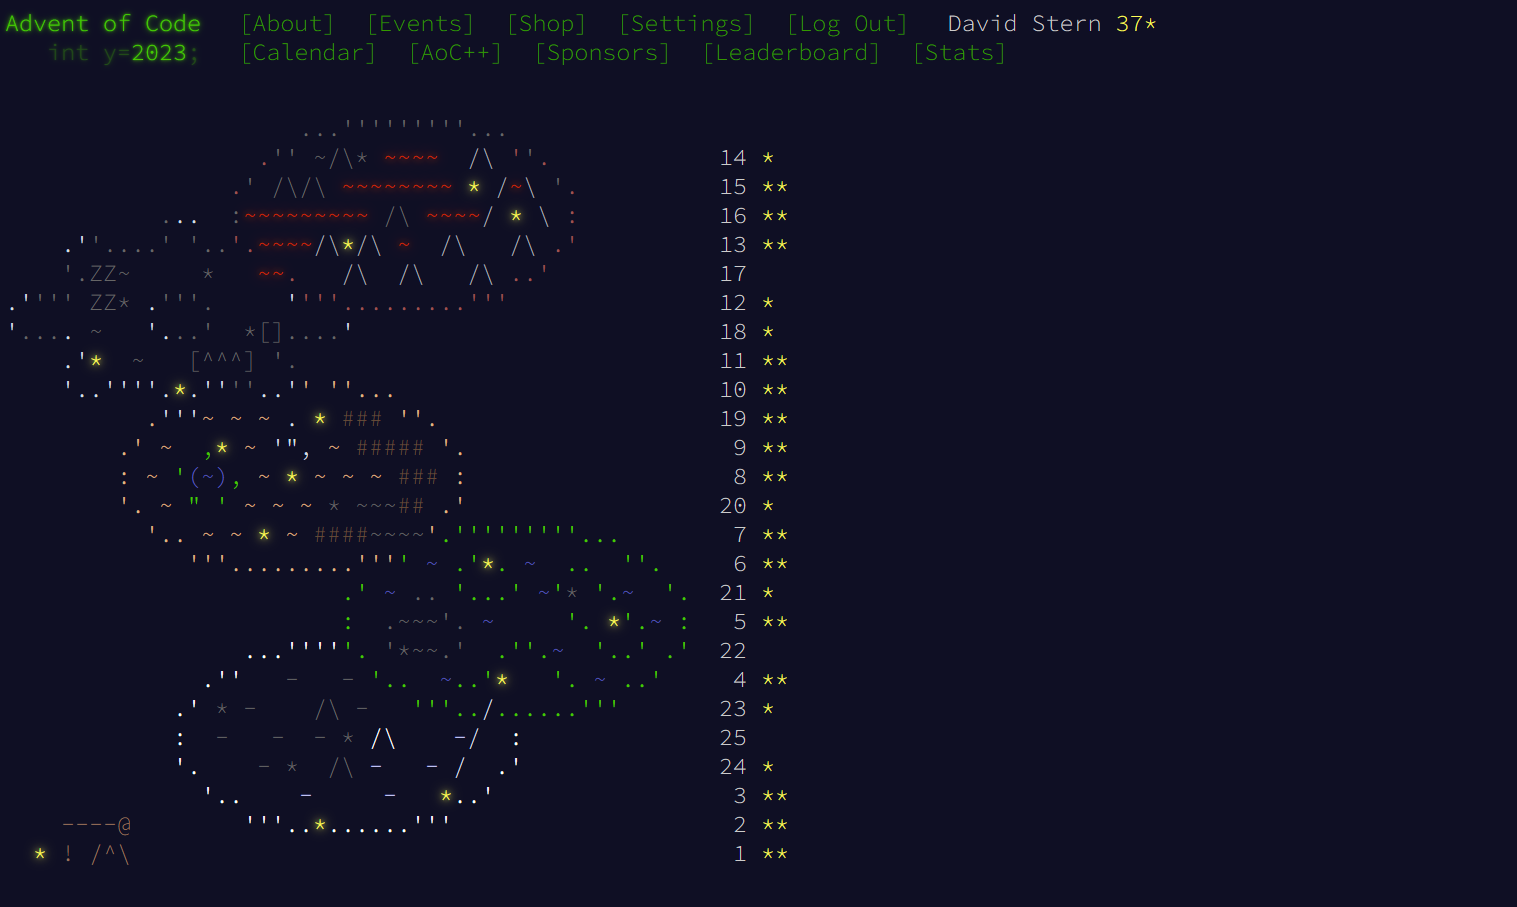
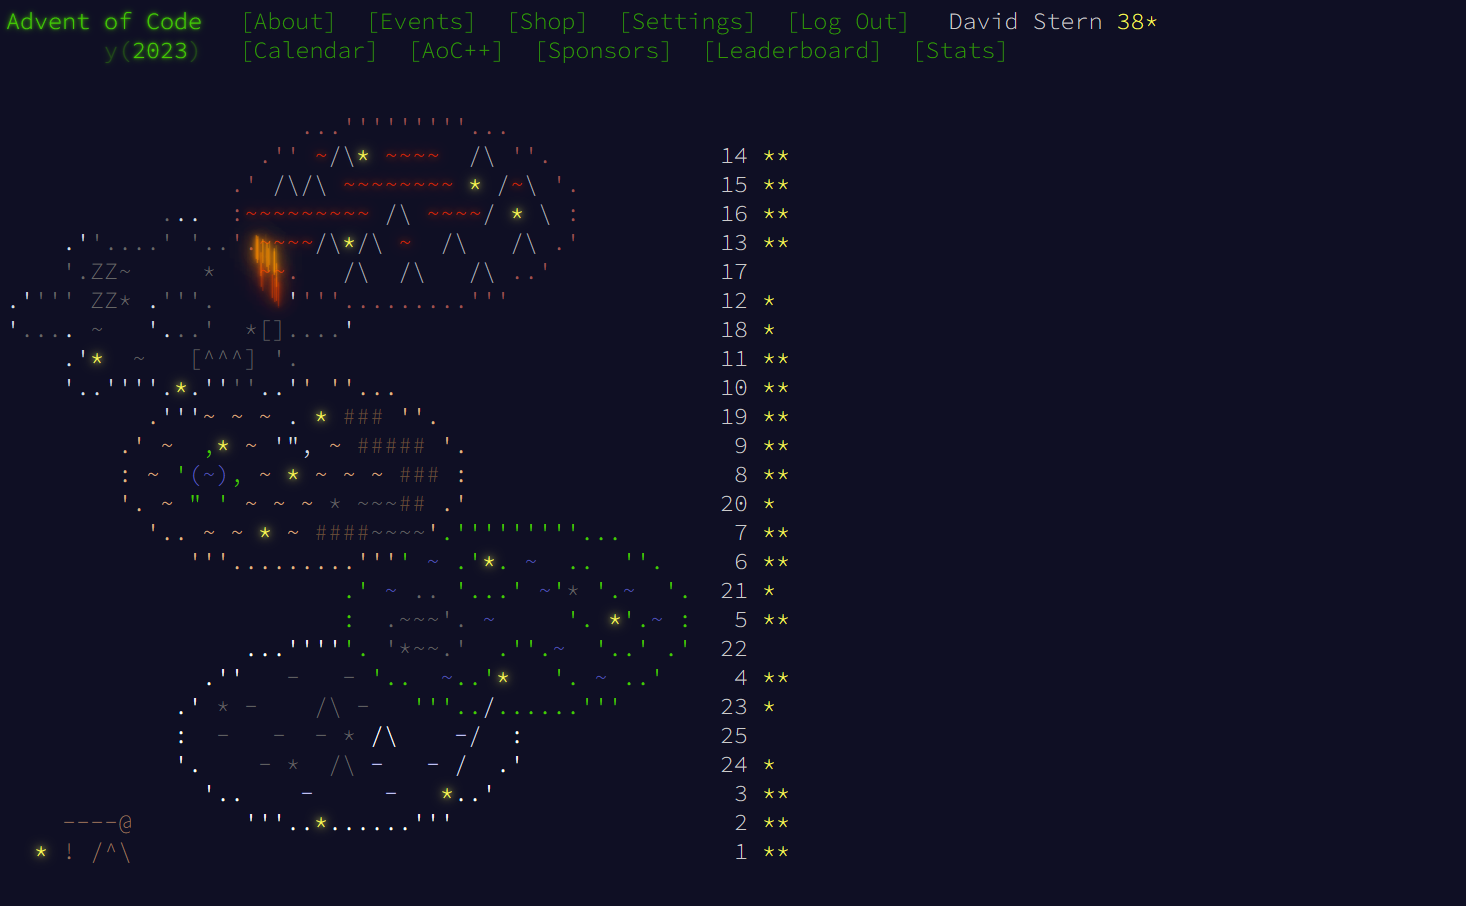
Day14 Part2 done

diff --git a/advent_python/day14.py b/advent_python/day14.py
@@ -6,9 +6,25 @@ class SolveDay14(SolveAdvent):
         RockSlider(self.file_content).slide_all_rocks_north()
 
     def solve_part2(self):
-        # The current implementation is far too inefficient to have
-        # any hope of completing for the desired trillion iterations.
-        RockSlider(self.file_content).spin_cycle(1_000_000_000)
+        cycles_to_perform = 1_000_000_000
+        cycle_info = RockSlider(
+            self.file_content
+        ).spin_cycle(
+            cycles_to_perform,
+            break_on_cycle=True
+        )
+        if isinstance(cycle_info, tuple):
+            cycle_start, cycle_end = cycle_info
+            # We know the cycle repeats every cycle_delta iterations
+            cycle_delta = cycle_end - cycle_start
+            optimized_cycles_to_perform = cycles_to_perform % cycle_delta
+            while optimized_cycles_to_perform < cycle_start:
+                optimized_cycles_to_perform += cycle_delta
+            # The optimized cycle count should have the map in an equivalent state to the original cycles_to_perform
+            print(
+                f"Optimized cycle count {optimized_cycles_to_perform} should be equivalent to {cycles_to_perform}")
+            cycle_info = RockSlider(
+                self.file_content).spin_cycle(optimized_cycles_to_perform, False)
 
 
 class RockSlider:
@@ -16,8 +32,8 @@ class RockSlider:
         """
         :param map: the platform of rocks as described in the platform.
         """
-        self.map = [[char for char in row if char != "\n"]
-                    for row in file_content]
+        self.map_to_mutate = [[char for char in row if char != "\n"]
+                              for row in file_content]
 
     @property
     def north_support_load(self) -> int:
@@ -26,15 +42,15 @@ class RockSlider:
         on the current `map`
         """
         total_load = 0
-        platform_height = len(self.map)
-        for index, row in enumerate(self.map):
+        platform_height = len(self.map_to_mutate)
+        for index, row in enumerate(self.map_to_mutate):
             score_per = platform_height - index
             number_of_round_rocks = len([item for item in row if item == "O"])
             total_load += number_of_round_rocks * score_per
         return total_load
 
     def flip_map_180(self):
-        for row in self.map:
+        for row in self.map_to_mutate:
             row.reverse()
 
     def transpose_map(self):
@@ -42,17 +58,18 @@ class RockSlider:
         Perform a transpose opperation on the map, so that rows and columns flip.
         """
         transposed_content = [["" for _ in range(
-            len(self.map))] for _ in range(len(self.map[0]))]
-        for row_number in range(len(self.map)):
-            for col_number in range(len(self.map[0])):
-                transposed_content[col_number][row_number] = self.map[row_number][col_number]
-        self.map = transposed_content
+            len(self.map_to_mutate))] for _ in range(len(self.map_to_mutate[0]))]
+        for row_number in range(len(self.map_to_mutate)):
+            for col_number in range(len(self.map_to_mutate[0])):
+                transposed_content[col_number][row_number] = self.map_to_mutate[row_number][col_number]
+        self.map_to_mutate = transposed_content
 
-    def pprint_map(self):
+    @property
+    def display_map(self) -> str:
         """
         Print the map as its shown in the problem prompt.
         """
-        print("\n".join(("".join(row) for row in self.map)))
+        return "\n".join(("".join(row) for row in self.map_to_mutate))
 
     @staticmethod
     def slide_row_rocks_west(row: list[str]):
@@ -76,7 +93,7 @@ class RockSlider:
                 explorer_index += 1
 
     def slide_all_rocks_west(self):
-        for row in self.map:
+        for row in self.map_to_mutate:
             self.slide_row_rocks_west(row)
 
     def slide_all_rocks_north(self):
@@ -91,35 +108,53 @@ class RockSlider:
         self.transpose_map()
         print(f"Total Load on North Platform is {self.north_support_load}")
 
-    def spin_cycle(self, number_of_cycles: int):
+    def cycle_once(self):
         """
-        As directed in Part2, Spin the map by first moving
-        North, West, South, and East.
-
-        The current implementation is extremely inefficient because
-        of all of the tranposes and 180 operations. A better version
-        would directly implement the sliding logic for all 4 directions,
+        Perform one spin cycle as explained in Part2 of the problem.
         """
-        for cycle in range(number_of_cycles):
-            if cycle % 1_000 == 0:
-                print(f"Reached cycle {cycle}/{number_of_cycles}")
-            # First, roll all of the rocks North
-            self.transpose_map()
-            self.slide_all_rocks_west()
-            self.transpose_map()
+        # Roll North
+        self.transpose_map()
+        self.slide_all_rocks_west()
+        self.transpose_map()
 
-            # Now roll west
-            self.slide_all_rocks_west()
+        # Now roll west
+        self.slide_all_rocks_west()
 
-            # Roll South
-            self.transpose_map()
-            self.flip_map_180()
-            self.slide_all_rocks_west()
-            self.flip_map_180()
-            self.transpose_map()
+        # Roll South
+        self.transpose_map()
+        self.flip_map_180()
+        self.slide_all_rocks_west()
+        self.flip_map_180()
+        self.transpose_map()
 
-            # Roll East
-            self.flip_map_180()
-            self.slide_all_rocks_west()
-            self.flip_map_180()
-        print(f"Load on North Support Beam: {self.north_support_load}")
+        # Roll East
+        self.flip_map_180()
+        self.slide_all_rocks_west()
+        self.flip_map_180()
+
+    def spin_cycle(
+            self,
+            requested_cycles: int,
+            break_on_cycle: bool) -> tuple[int, int] | None:
+        """
+        As directed in Part2, spin the map `requsted_cycles` times.
+
+        A key optimization is to look for the occurence of cycles. Because
+        the map changes over time is deterministic, once a cycle occurs it will infinitely
+        repeat. If `break_on_cycle=True`, then as soon as a cycle is detected, the loop will break,
+        returning a tuple of `(lower_cycle_number, upper_cycle_number)`
+        """
+        cycle_tracker: dict[str, int] = {}
+        for cycle_number in range(requested_cycles):
+            self.cycle_once()
+            if break_on_cycle:
+                if self.display_map in cycle_tracker:
+                    lower_cycle_number, upper_cycle_number = cycle_tracker[
+                        self.display_map], cycle_number
+                    # If a cycle is found and break_on_cycle is True,
+                    # then return early with cycle lower, upper bound if found.
+                    return lower_cycle_number, upper_cycle_number
+                # If the current map is not in the cycle_tracker, then log it
+                cycle_tracker[self.display_map] = cycle_number
+        print(
+            f"Load on north beam after {requested_cycles} cycles is {self.north_support_load}")

diff --git a/advent_python/__main__.py b/advent_python/__main__.py
@@ -7,4 +7,4 @@ from .day14 import SolveDay14
 
 if __name__ == "__main__":
     SolveDay14("input.txt").solve_part1()
-    # SolveDay14("test.txt").solve_part2()
+    SolveDay14("input.txt").solve_part2()

diff --git a/README.md b/README.md
@@ -1,6 +1,6 @@
 ### General Description
 
-I am working through the Advent of Code challenges for 2023, as can be found [here](https://adventofcode.com/2023). All solutions are either in Python or Rust. I currently have `37` stars. Each day's challenge has two parts. Each day's solution can be found in that day's particular file (for example, day 15 would be found in `day15.rs`).
+I am working through the Advent of Code challenges for 2023, as can be found [here](https://adventofcode.com/2023). All solutions are either in Python or Rust. I currently have `38` stars. Each day's challenge has two parts. Each day's solution can be found in that day's particular file (for example, day 15 would be found in `day15.rs`).
 
 ![Latest Dashboard](./advent_dashboard.png)
 
